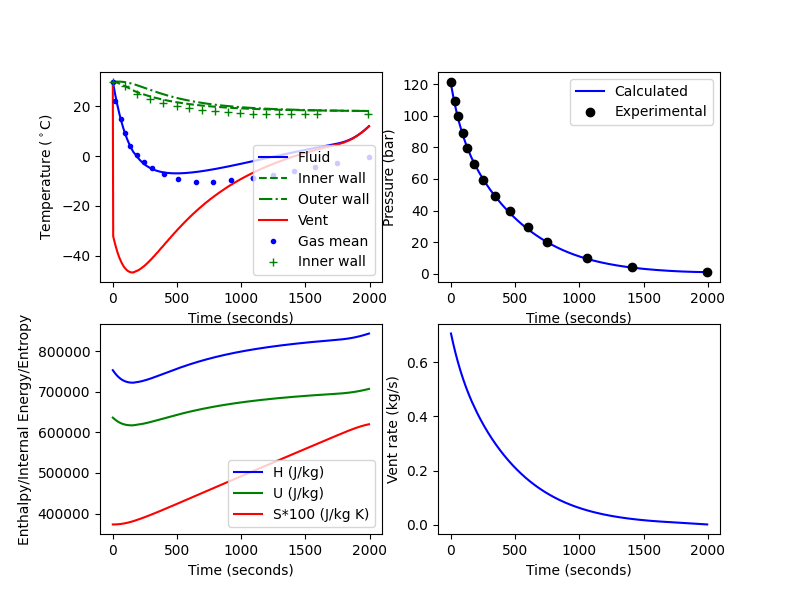
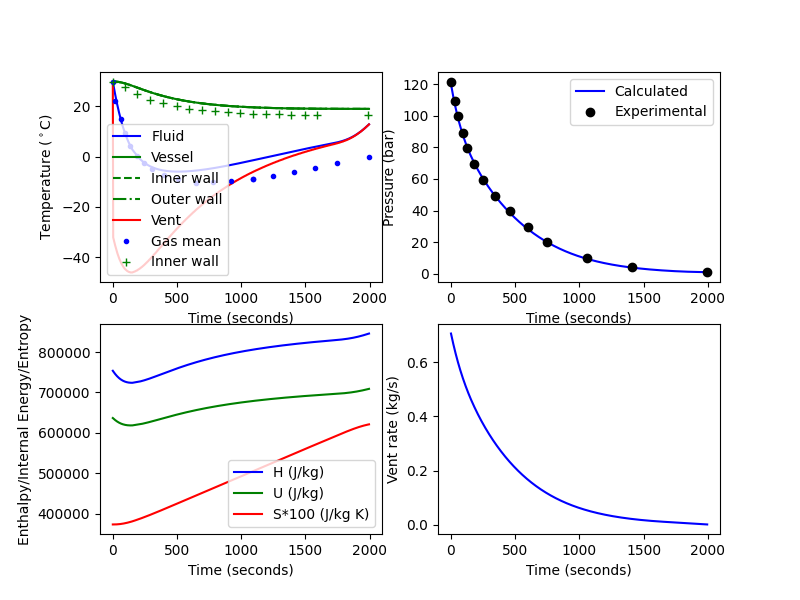
Manual and validation WIP

diff --git a/Manual.md b/Manual.md
@@ -1032,17 +1032,26 @@ For multi-component mixtures CoolProp does not provide solver for PH and UV-prob
 
 # Validation
 The code is provided as-is.
-However, comparisons have been made to a few experiments from the literature.
+However, comparisons have been made to some experiments from the literature.
 
 The following gases and modes are considered:
 
 - High pressure hydrogen discharge
 - High pressure hydrogen filling
 - High pressure nitrogen discharge
+- High pressure multi-component gas discharge
+
+These cases are all for Type I (steel) cylinders and the simple heat transfer / heat balance model has been applied, ignoring the thermal gradient in the cylinder wall. It has been checked by applying the 1D transient heat conduction model that results basically unaffected by this assumption. In addition to these, a few cases for Type IV cylinders have also been included in order to validate the 1D transient heat conduction model applied. This includes
+
+- High hydrogen discharge - comparison with commercial software.
+- High pressure helium discharge experiment (Karlshuhe Institute of Technology)
+- High pressure hydrogen discharge (GasTeF experiment)
+
+Details on Type III experiments are sparse but some general observations are made for the difference between type III and type IV cylinders.
 
 Furthermore, HydDown has also been benchmarked against external code by Ruiz and Moscardelli [@maraggi], who compared their GeoH2 app against HydDown and found excellent agreement for both pressure, mass flow rate and gas temperature for three different cases of discharge and filling.
 
-## Hydrogen discharge
+## Hydrogen discharge (Type I)
 Calculations with HydDown for high pressure hydrogen vessel discharge have been compared to three experiments from [@byrnes].
 Byrnes *et al.* [@byrnes] have reported a number of rapid depressurization experiments using both nitrogen and hydrogen, with blowdown times being varied between 14 seconds to 33 minutes.
 The vessel used was a type "K" gas cylinder with a volume of 0.0499 m$^3$, an ID of 8.56 inches and shell length of 55 inches.
@@ -1069,7 +1078,7 @@ For the fast depressurization the heat transfer from the outside is of less impo
 
 ![Simulation of run 9 from [@byrnes].](docs/img/Byrnes_run9.png){#fig:byrnes_run9}
 
-## Hydrogen filling
+## Hydrogen filling (Type I)
 In order to compare HydDown to experimental values of hydrogen filling operation the experiments reported by Striednig *et al.* [@STRIEDNIG] are used.
 Experimental results were obtained using a type I tank (steel) with a volume of 0.0235 m$^3$.
 The filling of hydrogen of gas into the vessel was carried out with an upstream reservoir kept at 350 bar and the flow was controlled with an electronically controlled dispenser.
@@ -1111,7 +1120,7 @@ The cooling of the vessel by ambient air is slower and would require a longer ru
 
 ![Simulation of $H_2$ pressurization using 30 MPa/min [@STRIEDNIG].](docs/img/Striednig_fillingH2_30MPa_min.png){#fig:striednig30}
 
-## Nitrogen discharge
+## Nitrogen discharge (Type I)
 Calculations with HydDown are compared to experiment I1 from ref. [@Haque1992b].
 The experiment is a blowdown of a vertically oriented cylindrical vessel with flat ends.
 The vessel length is 1.524 m, the inside diameter is 0.273 m, and the wall thickness is 25 mm.
@@ -1128,8 +1137,17 @@ As seen from [@Fig:N2val], the calculations compare well with the experimental r
 The calculated temperature of the bulk vapor is within the experimental range of measured temperature at all times during the simulation.
 It is also noted that the minimum temperature is reached at approximately the same time as in the experiments.
 The calculated vessel inner wall temperature does not decline as rapidly as the experiments, but from around a calculation time of 60 s, the temperature is within the experimentally observed inner wall temperature.
-The main reason for the inability to match the vessel wall temperature is that the model ignores the temperature gradient from the outer to the inner wall surface and uses an average material temperature.
-Especially at the beginning of the discharge it is considered likely that a significant temperature gradient will exist.
+
+## Multi-component discharge (Type I)
+The experiments were conducted by Haque *et al.* [@Haque1992b] and the experimental data has been extracted from the Ph.d. thesis of Wong [@WONG].
+
+The experimental vessel is a full-size suction scrubber for a gas compressor which has a total volume of 2.78 m3, with length and inside diameter of 3.240 m (2.75 m tan-to-tan)
+and 1.130 m respectively. The wall thickness is 59 mm. For modelling the length of a flat-ended cylinder has been adjusted to give a total volume of 2.78 m3. An orifice diameter of 6.35 mm was used for discharge and for HydDown modelling the discharge coefficient was adjusted to 0.97 to match the experimental pressure. The results of HydDown and comparison with the experimental results are shown in [@fig:Multi-val].
+
+![Calculations of discharge of a non-condensable mixture (0.91/0.09 molefraction of methane/ethane) emulating experiment I1 from [@Haque1992b]. The figure shows calculated gas and wall temperature (full lines) compared to experiments (upper left), calculated and experimental pressure (upper right), specific thermodynamic state variables (lower left), and the calculated vent rate (lower right).](docs/img/NG_validation.png){#fig:Multi-val}
+
+The minimum gas temperature simulated by HydDown -6 C, compared to the minimum measured average gas temperature of
+-10.3 C. The difference in measured vs calculated wall temperature is 2.3 C, with a lower measured wall temperature.  
 
 ## 1-D transient heat transfer
 A few notes about vessels with poor thermal conductivity and composite materials. When modelling systems with high Biot number and in particular composite materials the complexity increases significantly. Not just beacause of the more difficult numerical problem, but even more so because of uncertainty in key parameters such as thermal conductivity, density and heat capacity. Composite materials such as carbon fibre or glass fibre reinforced epoxy systems can be manufactured in many different ways (fibre orientation etc.) which effects the previously mentioned propoerties. These properties, in particular the thermal conductivty, will influence the results significantly. If these properties are not accurately informed for the system to be analysed, sourcing data from literature shall be done with caution.
